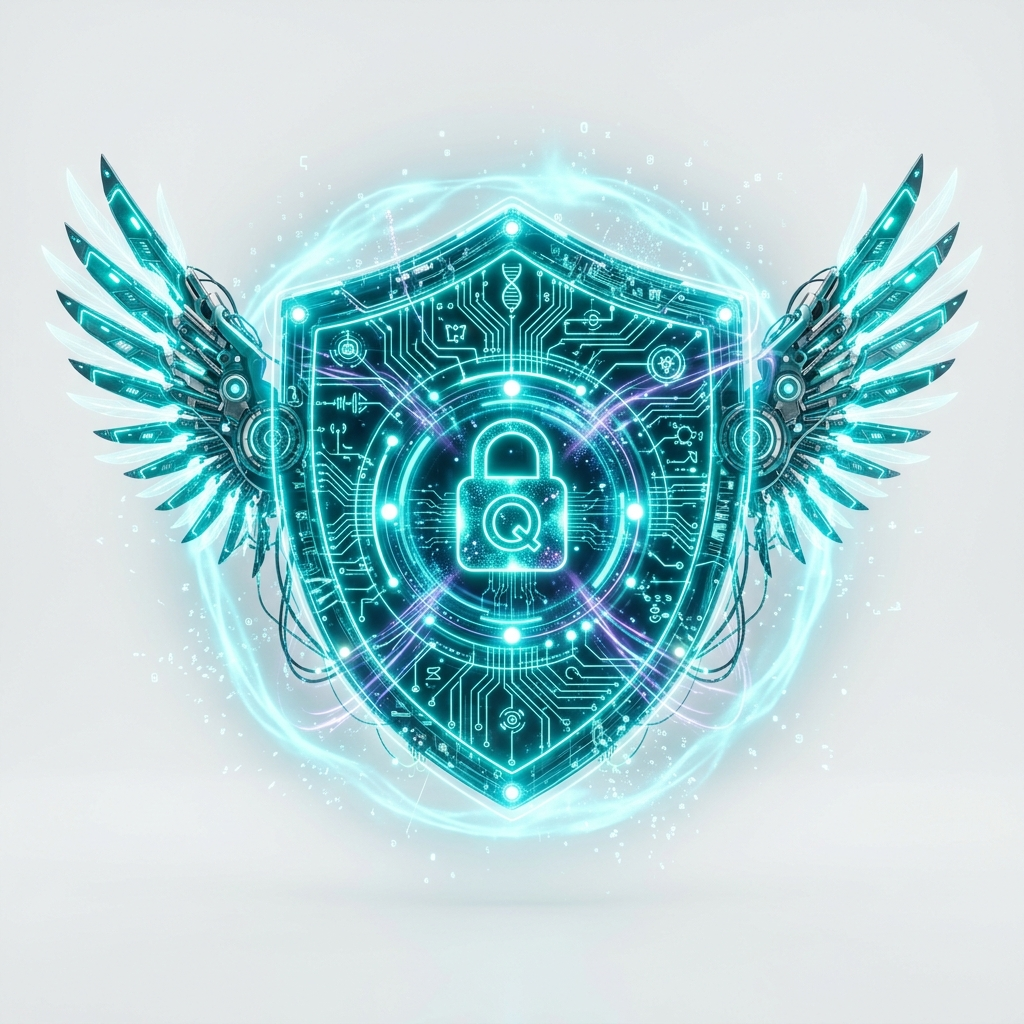
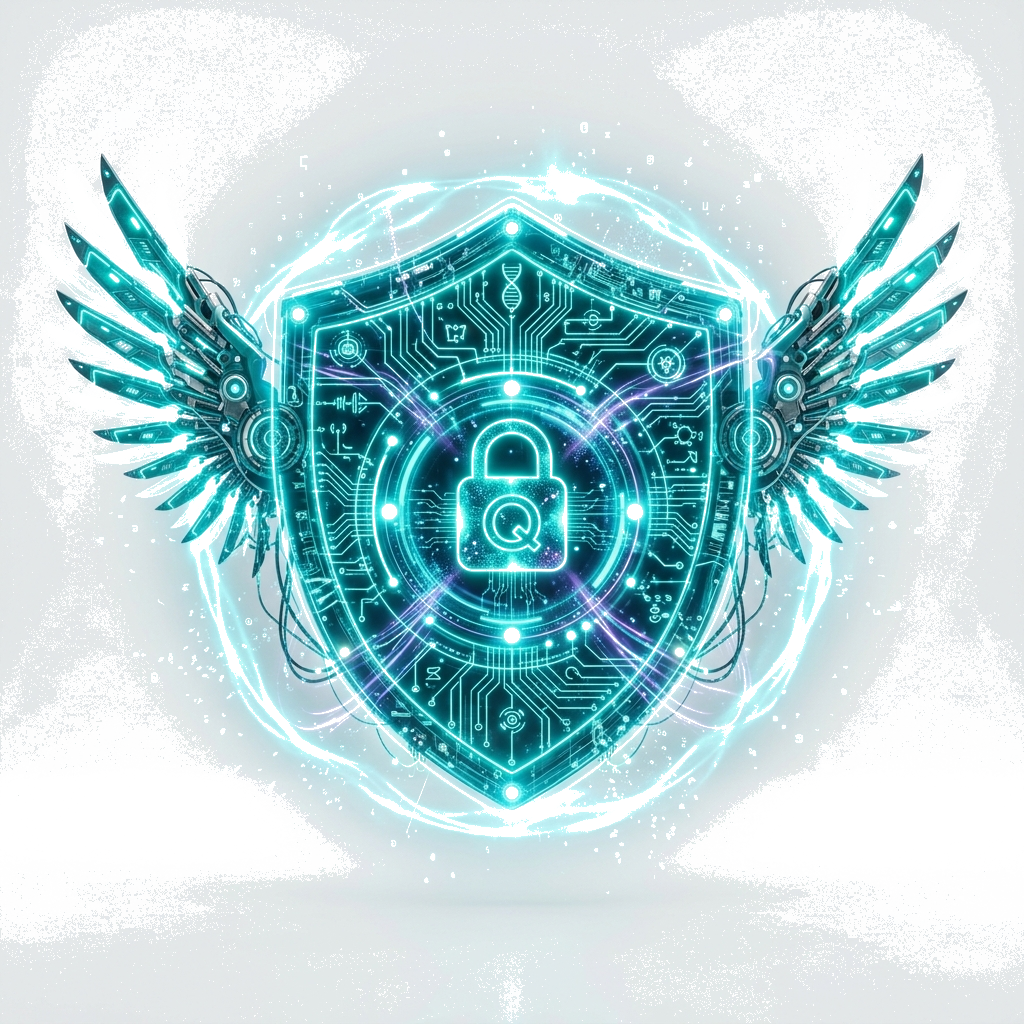
Convert 3D legal page artwork images to TRUE 100% ALPHA TRANSPARENT PNGs with zero background box

diff --git a/src/pages/TermsPage.jsx b/src/pages/TermsPage.jsx
@@ -1,6 +1,6 @@
 import React, { useEffect, useRef } from 'react';
 import { Link } from 'react-router-dom';
-import { ArrowLeft, FileText, Scale } from 'lucide-react';
+import { ArrowLeft, FileText } from 'lucide-react';
 import ParticleSwarm3D from '../components/ParticleSwarm3D';
 import Navbar from '../components/Navbar';
 import Footer from '../components/Footer';
@@ -121,7 +121,7 @@ export default function TermsPage() {
         <div className="sticky top-0 h-screen w-full overflow-hidden bg-slate-50 flex items-center justify-center">
           <ParticleSwarm3D />
 
-          {/* Seamless Floating 3D Digital Terms Contract Artwork (Multiply Blend Mode) */}
+          {/* Floating 3D Digital Terms Contract Artwork (True Alpha Transparent PNG) */}
           <div className="absolute inset-0 flex items-center justify-center z-20 pointer-events-none">
             <div className="animate-soft-float flex items-center justify-center">
               <div
@@ -134,7 +134,6 @@ export default function TermsPage() {
                   backgroundSize: 'contain',
                   backgroundRepeat: 'no-repeat',
                   backgroundPosition: 'center center',
-                  mixBlendMode: 'multiply',
                   willChange: 'transform',
                 }}
               />

diff --git a/src/pages/PrivacyPage.jsx b/src/pages/PrivacyPage.jsx
@@ -122,7 +122,7 @@ export default function PrivacyPage() {
         <div className="sticky top-0 h-screen w-full overflow-hidden bg-slate-50 flex items-center justify-center">
           <ParticleSwarm3D />
 
-          {/* Seamless Floating 3D Quantum Privacy Shield Artwork (Multiply Blend Mode for zero white background) */}
+          {/* Floating 3D Quantum Privacy Shield Artwork (True Alpha Transparent PNG) */}
           <div className="absolute inset-0 flex items-center justify-center z-20 pointer-events-none">
             <div className="animate-soft-float flex items-center justify-center">
               <div
@@ -135,7 +135,6 @@ export default function PrivacyPage() {
                   backgroundSize: 'contain',
                   backgroundRepeat: 'no-repeat',
                   backgroundPosition: 'center center',
-                  mixBlendMode: 'multiply',
                   willChange: 'transform',
                 }}
               />

diff --git a/src/pages/SecurityPage.jsx b/src/pages/SecurityPage.jsx
@@ -121,7 +121,7 @@ export default function SecurityPage() {
         <div className="sticky top-0 h-screen w-full overflow-hidden bg-slate-50 flex items-center justify-center">
           <ParticleSwarm3D />
 
-          {/* Seamless Floating 3D Zero-Trust HSM Security Vault Artwork (Multiply Blend Mode) */}
+          {/* Floating 3D Zero-Trust HSM Security Vault Artwork (True Alpha Transparent PNG) */}
           <div className="absolute inset-0 flex items-center justify-center z-20 pointer-events-none">
             <div className="animate-soft-float flex items-center justify-center">
               <div
@@ -134,7 +134,6 @@ export default function SecurityPage() {
                   backgroundSize: 'contain',
                   backgroundRepeat: 'no-repeat',
                   backgroundPosition: 'center center',
-                  mixBlendMode: 'multiply',
                   willChange: 'transform',
                 }}
               />
